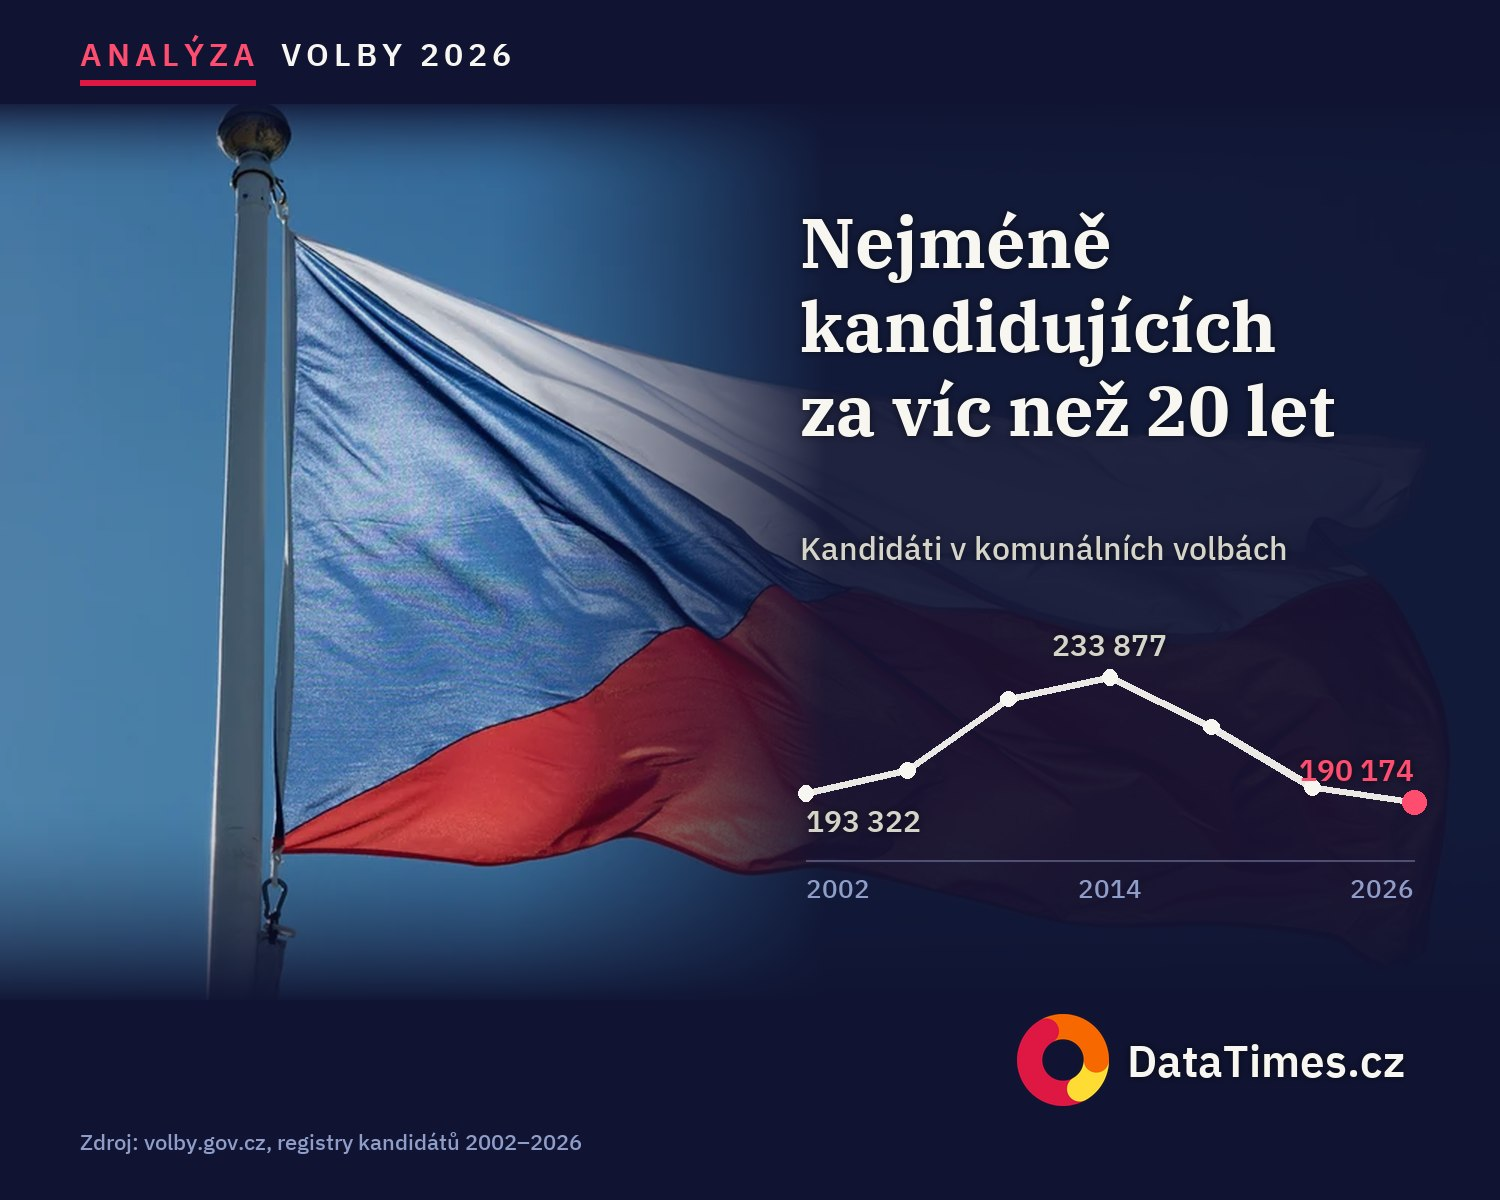
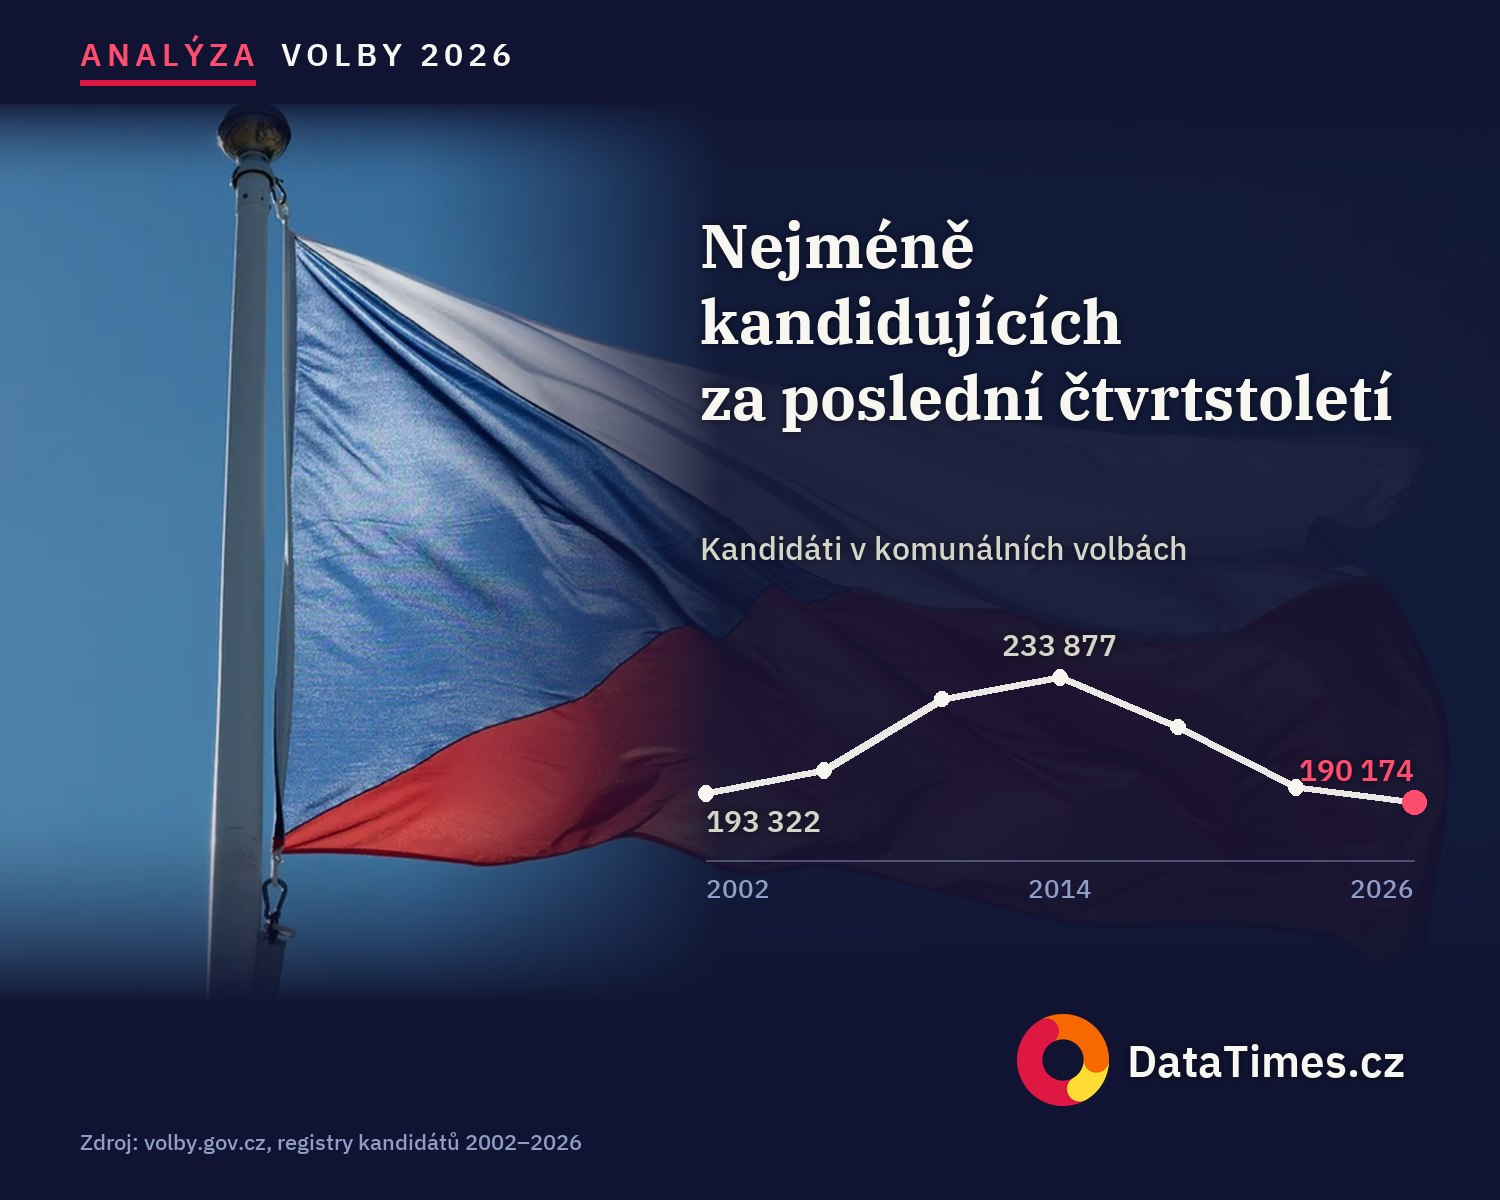
design: social-safe og:images – new headline on candidates cover, safe-zone OG variants for both Russia election articles
Content now sits inside x 100–1100 / y 35–555 of the 1200x630 card, so LinkedIn's
~1.7:1 feed crop and X's 2:1 crop no longer cut the kicker, headline or badge.

diff --git a/apps/web/app/clanek/_articles/volby-rusko-2026-09-20-2026-divadlo-bez-potlesku/index.md b/apps/web/app/clanek/_articles/volby-rusko-2026-09-20-2026-divadlo-bez-potlesku/index.md
@@ -4,6 +4,7 @@ date: "2026-09-20"
 author: "Kateřina Mahdalová"
 excerpt: "První ruské parlamentní volby od plného vpádu na Ukrajinu nerozhodují o moci. Kreml předepsal Jednotnému Rusku výsledek mezi 47 a 53 procenty, soud vyřadil poslední protiválečnou stranu a učitelé v Jakutsku hlásí jména rodičů, kteří odvolili. Za hladkým průběhem se skrývá největší nervozita za deset let – a rozpočet 23 miliard rublů na rituál, jehož výsledek je znám předem."
 coverImage: "images/rusko-volby-2026-divadlo-bez-potlesku-datatimes.webp"
+ogImage: "images/cover-og.jpg"
 coverFit: contain
 coverBg: "brandChocolate.9"
 filter: ["analýza"]

diff --git a/apps/web/app/clanek/_articles/volby-rusko-2026-09-20-jak-se-vyrabi-volebni-vitezstvi/index.md b/apps/web/app/clanek/_articles/volby-rusko-2026-09-20-jak-se-vyrabi-volebni-vitezstvi/index.md
@@ -4,6 +4,7 @@ date: "2026-09-20"
 author: "Kateřina Mahdalová"
 excerpt: "Svobodné volby? Ruský „svátek demokracie“ se odehrává ve znamení přísných kvót a selekce."
 coverImage: "images/rusko-volby-jak-se-vyrabi-vitezstvi-datatimes.jpg"
+ogImage: "images/cover-og.jpg"
 coverFit: contain
 coverBg: "brandChocolate.9"
 filter: ["analýza"]
